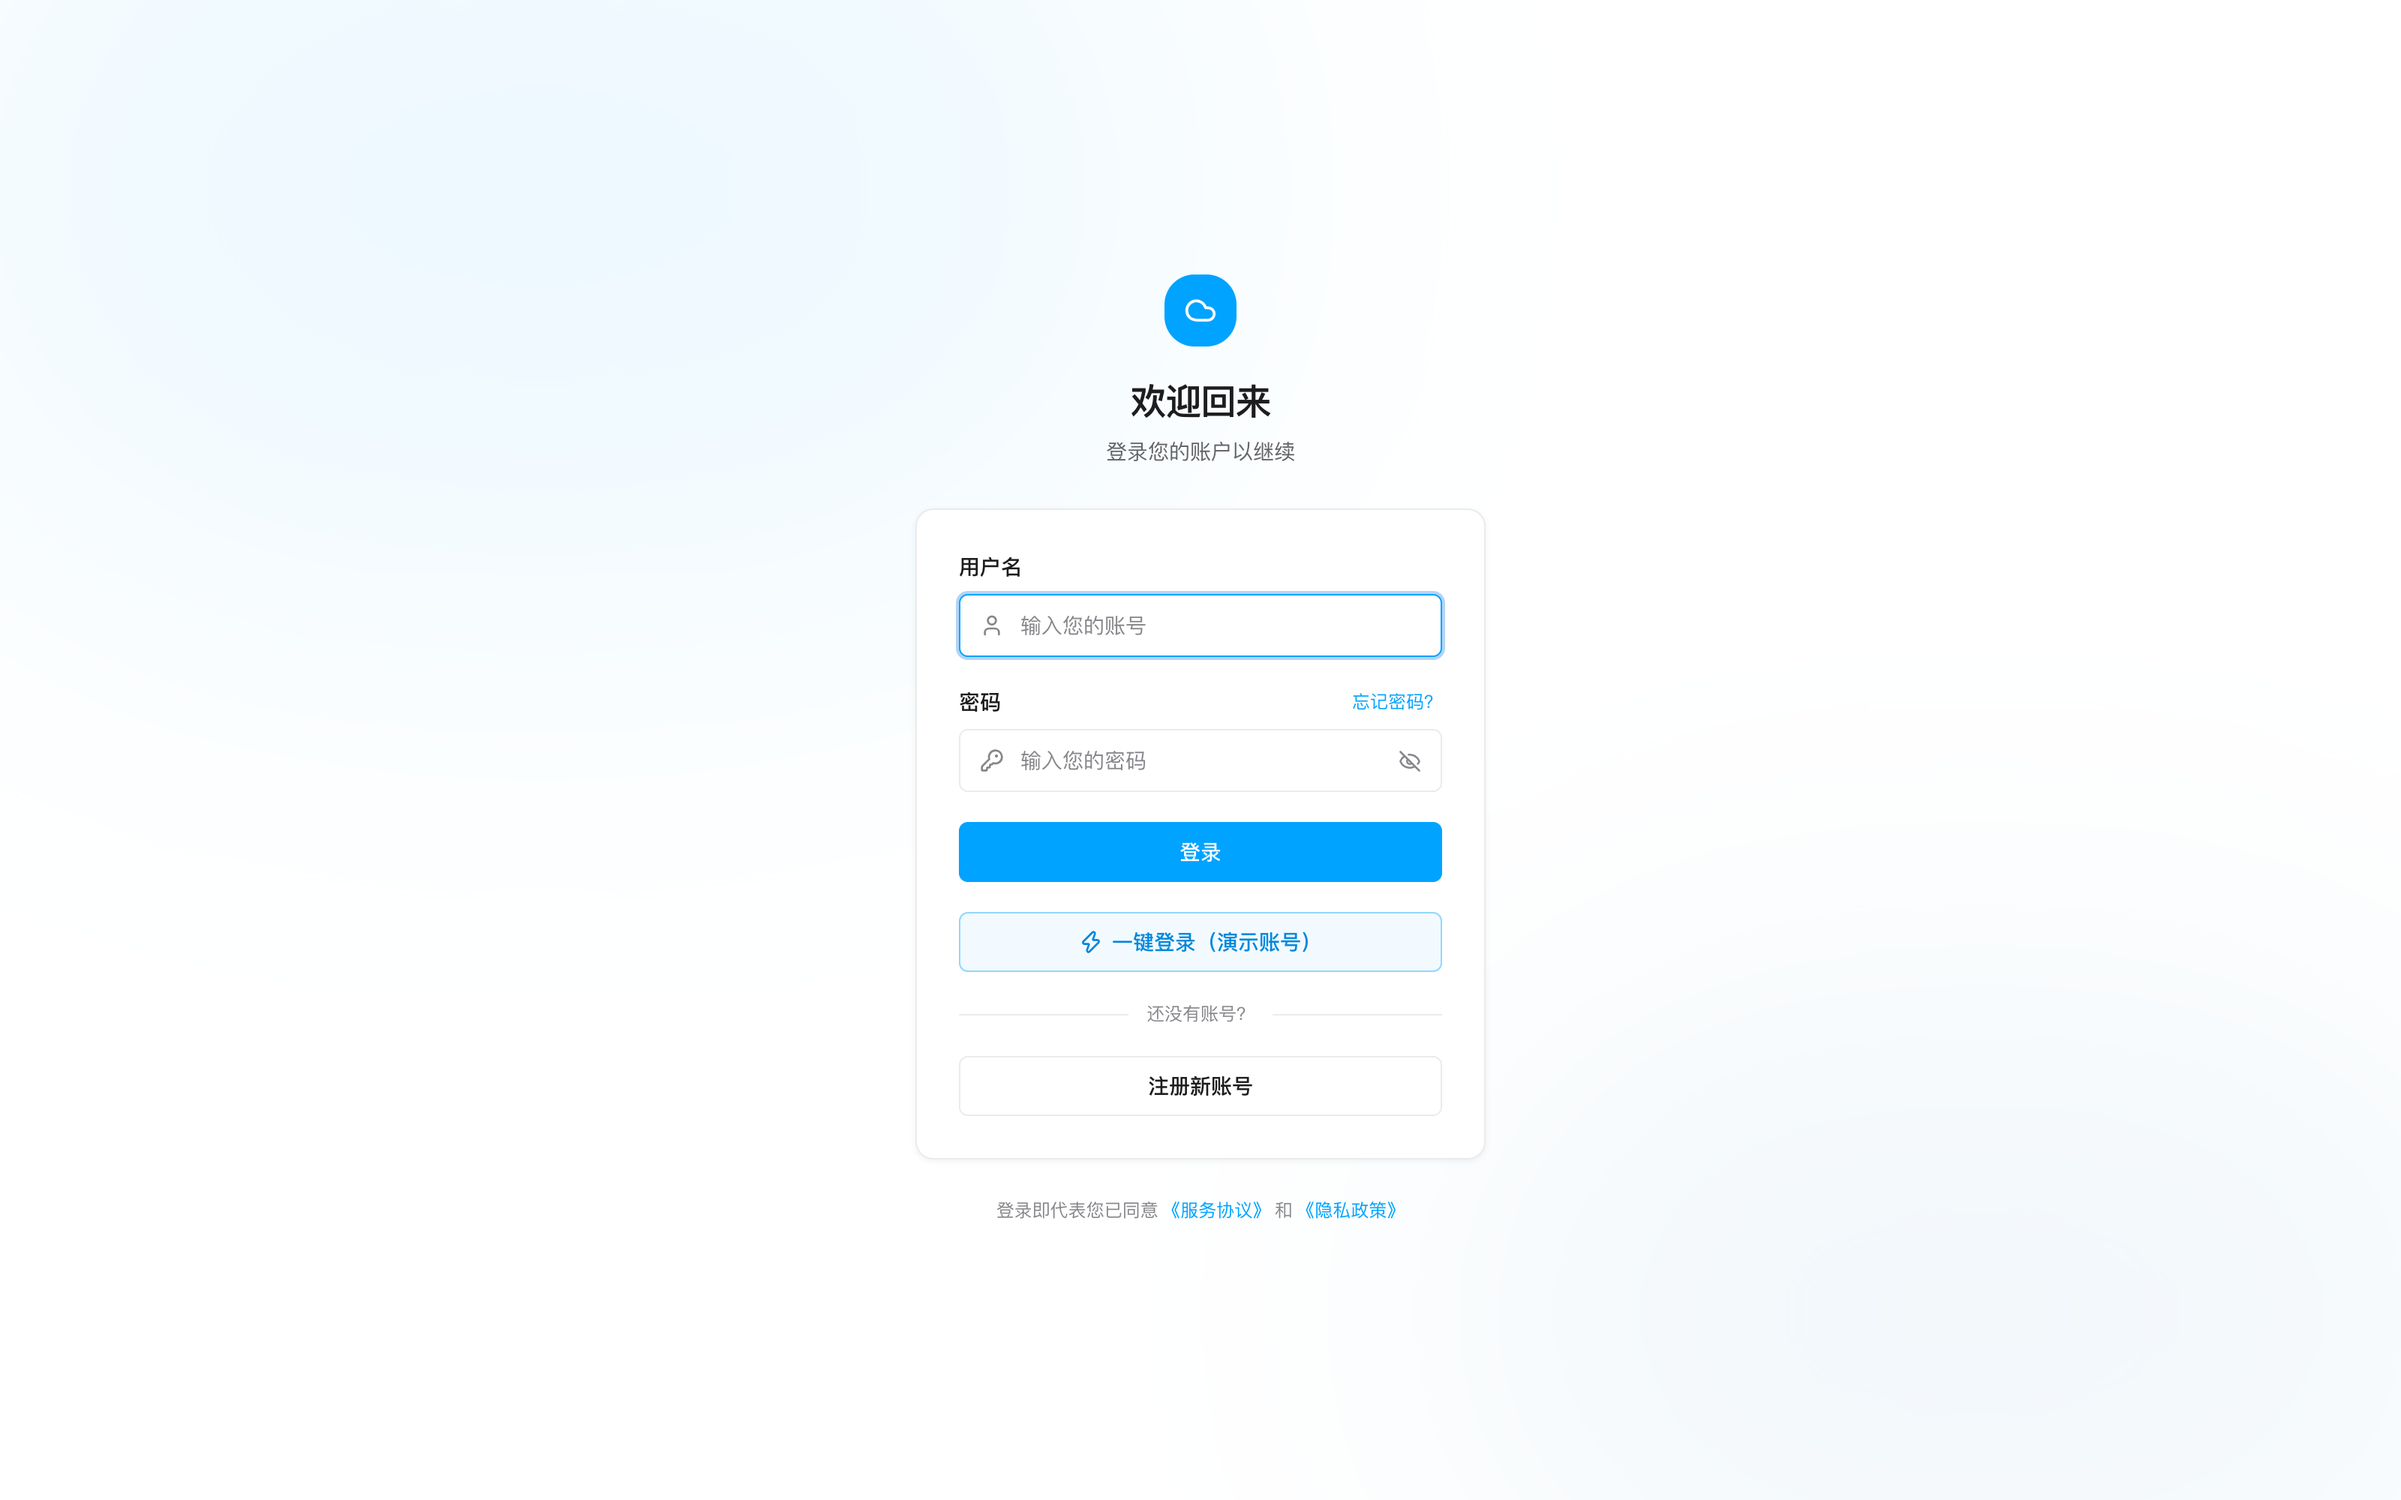
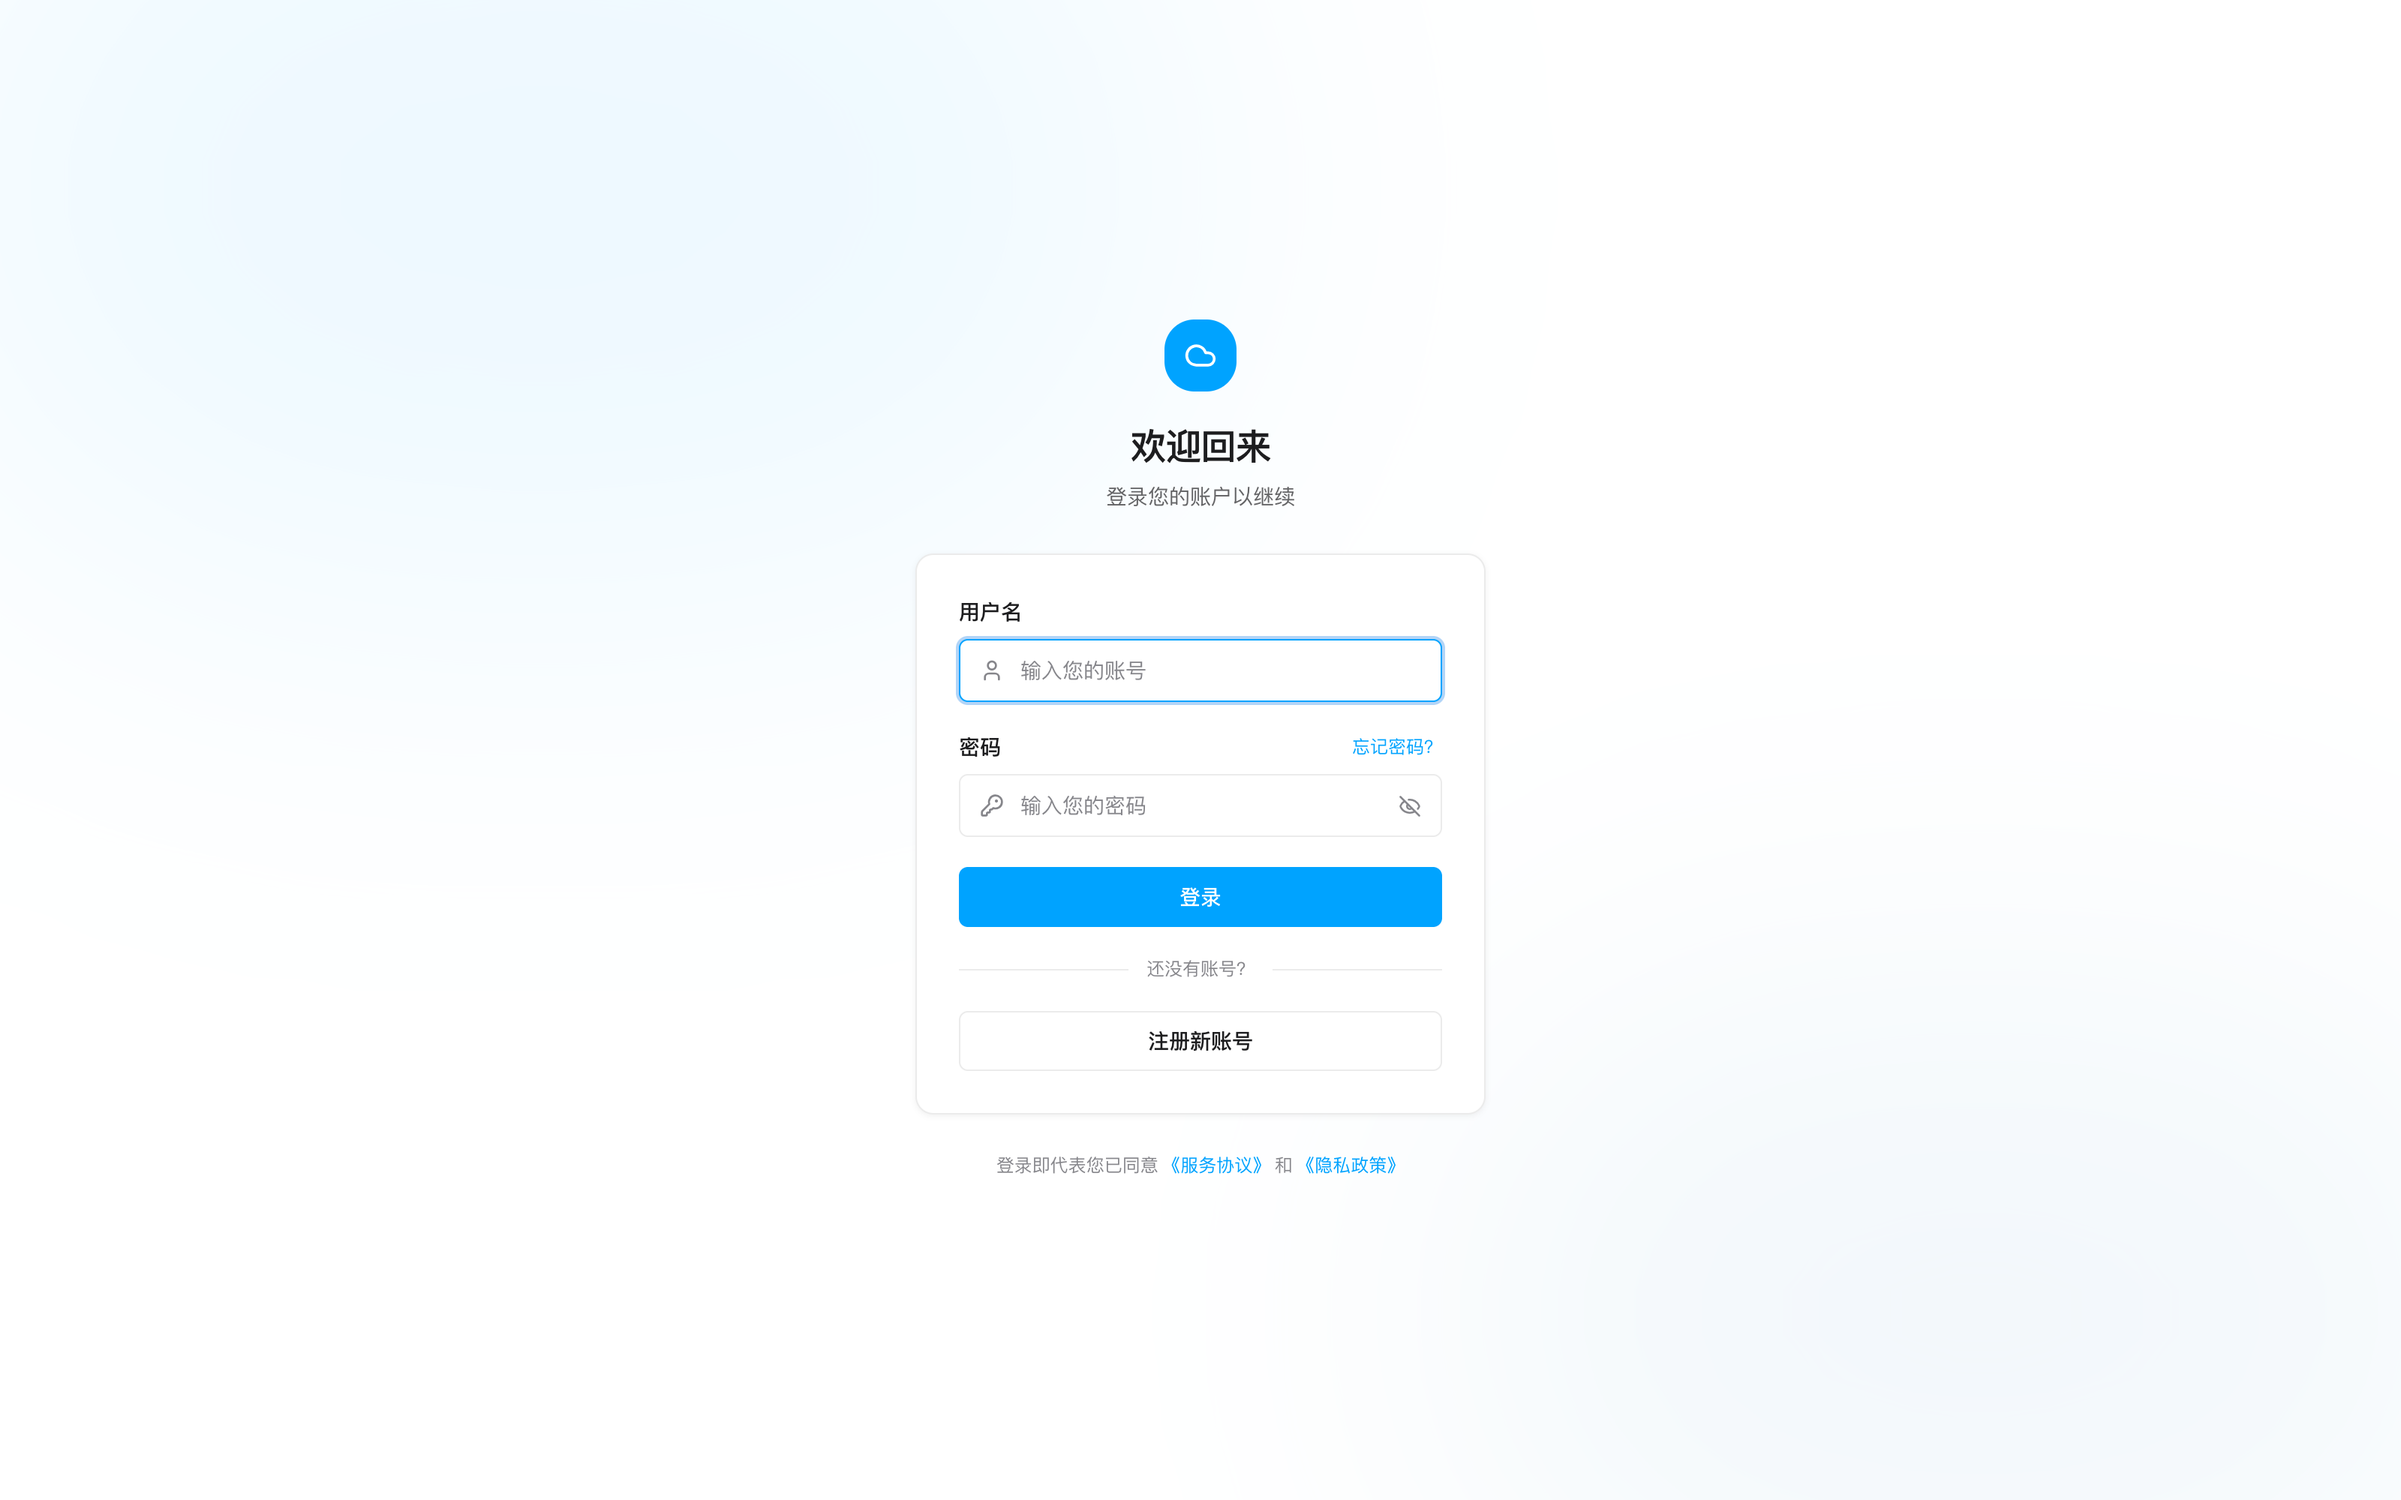
fix: 移除登录页"一键登录（演示账号）"入口
- 删除硬编码演示账号凭据的 quickLogin 及对应按钮、无用图标导入
- 更新登录页截图保持图文一致

diff --git a/src/views/login/index.vue b/src/views/login/index.vue
@@ -4,7 +4,7 @@
  */
 import { onMounted, reactive, ref, nextTick } from 'vue'
 import { useRoute, useRouter } from 'vue-router'
-import { Cloud, User, KeyRound, LogIn, Eye, EyeOff, Zap } from '@lucide/vue'
+import { Cloud, User, KeyRound, LogIn, Eye, EyeOff } from '@lucide/vue'
 import { ElMessage } from '@/composables/useToast'
 import userService from '@/api/user'
 import { setToken } from '@/utils/cookie'
@@ -35,13 +35,6 @@ function resolveRedirect(): { name: string } | { path: string } {
 function doLogin() {
   if (!loginForm.username) return ElMessage.error('请输入用户名')
   if (!loginForm.password) return ElMessage.error('请输入密码')
-  submitLogin()
-}
-
-// 一键登录：填充演示账号并直接登录
-function quickLogin() {
-  loginForm.username = 'xiaoye'
-  loginForm.password = '12345678'
   submitLogin()
 }
 
@@ -186,17 +179,6 @@ onMounted(async () => {
               <path class="opacity-75" fill="currentColor" d="M4 12a8 8 0 018-8V0C5.373 0 0 5.373 0 12h4z" />
             </svg>
             {{ loading ? '登录中...' : '登录' }}
-          </button>
-
-          <!-- 一键登录（演示账号） -->
-          <button
-            type="button"
-            :disabled="loading"
-            class="w-full flex justify-center items-center h-10 rounded-sm text-sm font-medium transition-all duration-150 text-primary-600 border border-primary-500/40 bg-primary-500/5 hover:bg-primary-500/10 disabled:opacity-60"
-            @click="quickLogin"
-          >
-            <Zap :size="16" :stroke-width="2" class="mr-1.5" />
-            一键登录（演示账号）
           </button>
         </form>
 
